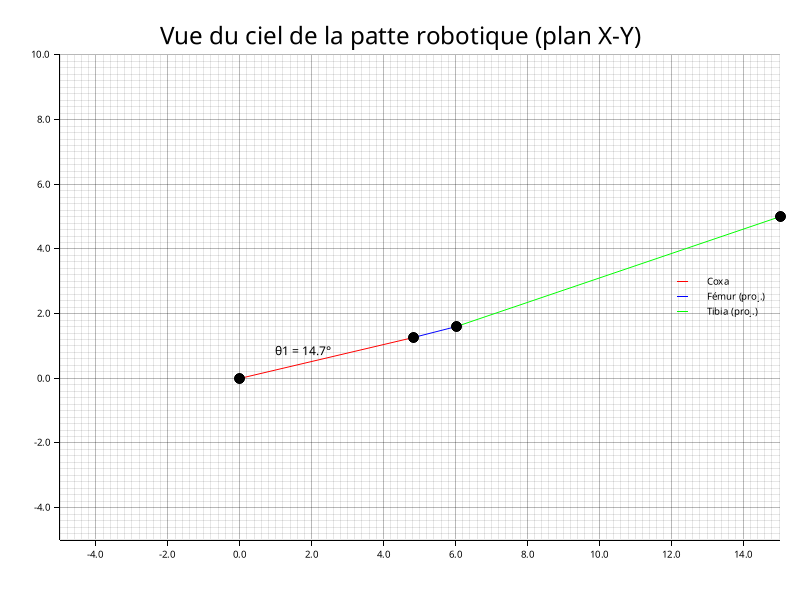
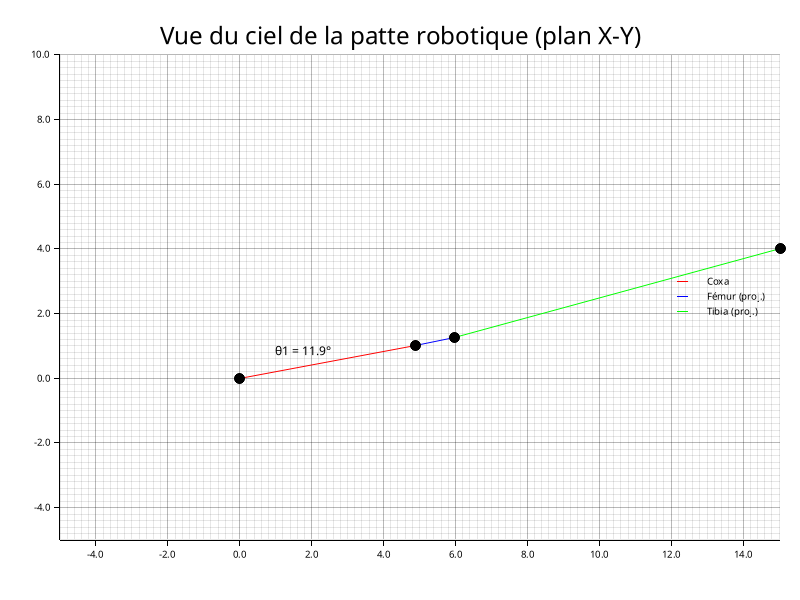
Update visualization functions and improve comments for robotic leg calculations

diff --git a/Rust/trigo-calc/src/main.rs b/Rust/trigo-calc/src/main.rs
@@ -29,9 +29,9 @@ fn calcul (x : f64, y: f64, z: f64) {
     // Afficher les angles calculés
     println!("Angles calculés (en degrés) :");
     println!("Theta 1 (Coxa)  : {:.2}°", theta1.to_degrees());
-    println!("Theta 2 (Coxa)  : {:.2}°", theta2.to_degrees());
+    println!("Theta 2 (Fémur)  : {:.2}°", theta2.to_degrees());
     println!("Theta 3 (Fémur) : {:.2}°", theta3.to_degrees());
-    println!("Theta 4 (Fémur) : {:.2}°", theta4.to_degrees());
+    println!("Theta 4 (Tibia) : {:.2}°", theta4.to_degrees());
     println!("Theta 5 (Tibia) : {:.2}°", theta5.to_degrees());
 
     // Calcul des longueurs des vecteurs ( vue du ciel ) (c', f', t')
@@ -44,23 +44,25 @@ fn calcul (x : f64, y: f64, z: f64) {
     println!("Fémur (f') : {:.2} cm", f_prime);
     println!("Tibia (t') : {:.2} cm", t_prime);
 
-    // Générer la visualisation
+
+
+    // Générer la vue du ciel (x;y)
+    if let Err(e) = visualize_leg_top_view(x, y, z, coxa, femur, tibia, theta1, theta4) {
+        println!("Erreur lors de la génération de la vue du ciel : {}", e);
+    }
+    // Générer la visualisation de profile (x;z)
     if let Err(e) = visualize_leg(x, y, z, coxa, femur, tibia, theta1, theta2, theta4) {
         println!("Erreur lors de la génération de la visualisation : {}", e);
     }
 
-    // Générer la vue du ciel
-    if let Err(e) = visualize_leg_top_view(x, y, z, coxa, femur, tibia, theta1, theta4) {
-        println!("Erreur lors de la génération de la vue du ciel : {}", e);
-    }
 }
 
 fn main() {
     println!("=== Programme de calcul -> trygonométrie ===");
 
     let x = 19.0;
-    let y = 5.0;
-    let z = -8.0;
+    let y = 4.0;
+    let z = -7.0;
 
     calcul(x, y, z);
 }

diff --git a/Rust/trigo-calc/src/visualisation.rs b/Rust/trigo-calc/src/visualisation.rs
@@ -47,8 +47,17 @@ pub fn visualize_leg(x: f64, y: f64, z: f64, coxa: f64, femur: f64, tibia: f64, 
     Ok(())
 }
 
-pub fn visualize_leg_top_view(x: f64, y: f64, z: f64, coxa: f64, femur: f64, tibia: f64, 
-                         theta1: f64, theta4: f64) -> Result<(), Box<dyn std::error::Error>> {
+//! Génère la vue du ciel (top view) de la patte robotique
+//! # Arguments
+//! * `x` - Coordonnée X de la cible
+//! * `y` - Coordonnée Y de la cible
+//! * `z` - Coordonnée Z de la cible
+//! * `coxa` - Longueur du segment Coxa
+//! * `femur` - Longueur du segment Fémur
+//! * `tibia` - Longueur du segment Tibia
+//! * `theta1` - Angle de la Coxa en radians
+//! * `theta4` - Angle du Tibia en radians
+pub fn visualize_leg_top_view(x: f64, y: f64, z: f64, coxa: f64, femur: f64, tibia: f64, theta1: f64, theta4: f64) -> Result<(), Box<dyn std::error::Error>> {
     let root = BitMapBackend::new("leg_visualization_top.png", (800, 600)).into_drawing_area();
     root.fill(&WHITE)?;
     
